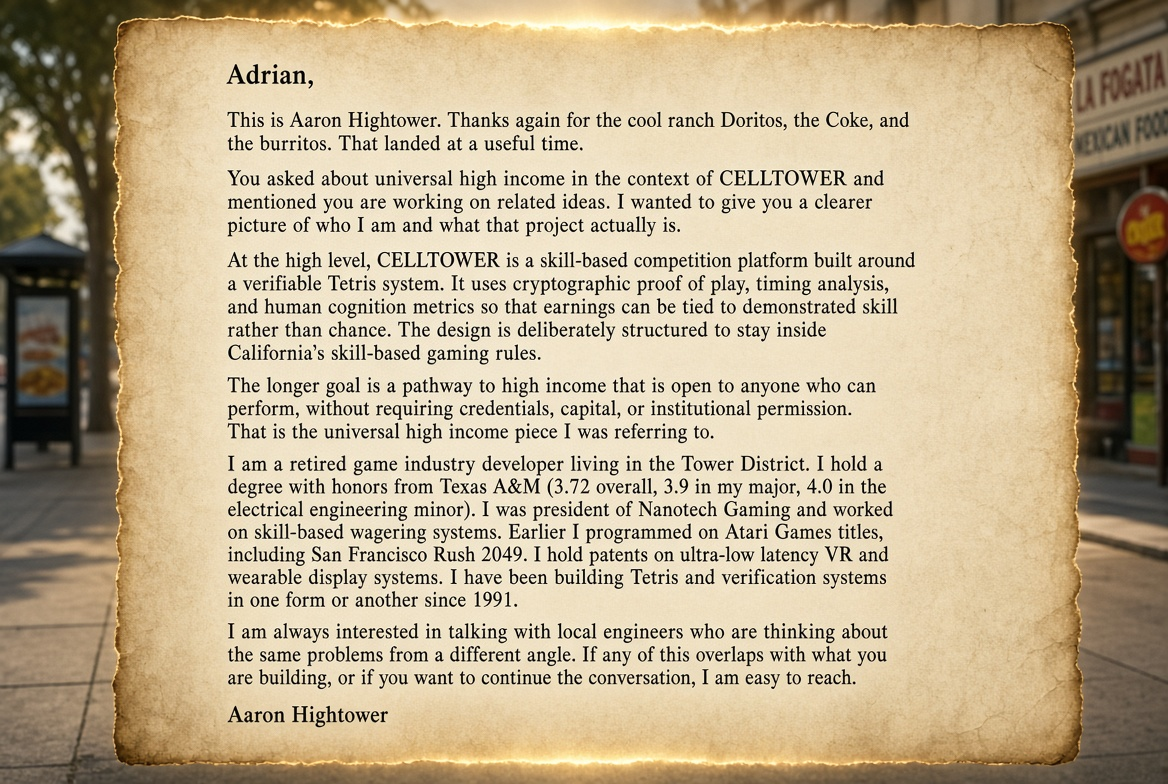
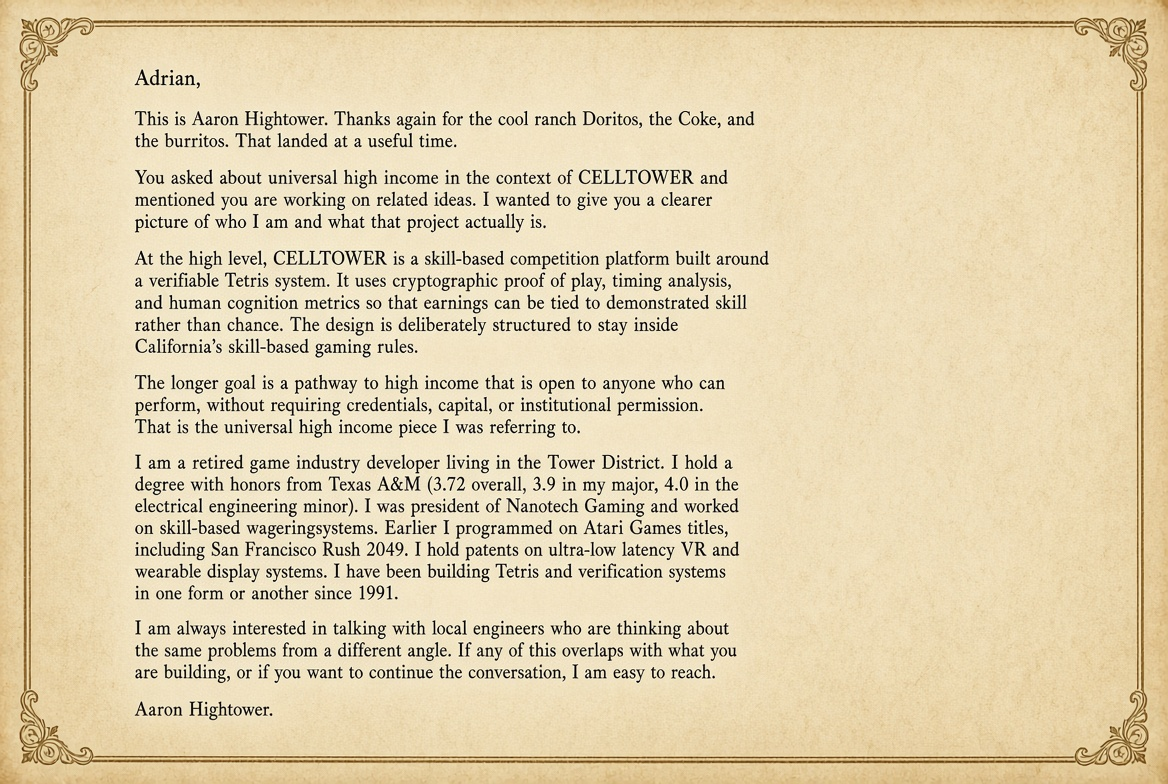
iSH changes

diff --git a/ah-adrian/index.html b/ah-adrian/index.html
@@ -3,25 +3,25 @@
 <head>
   <meta charset="UTF-8">
   <meta name="viewport" content="width=device-width, initial-scale=1.0">
-  <title>A Meeting at Belmont &amp; Van Ness | High Tower District</title>
-  <meta name="description" content="A follow-up of clear context and ethical intent after a sidewalk conversation at the northeast corner of Belmont and Van Ness in Fresno. CELLTOWER, verified skill, and universal high income.">
+  <title>A Meeting Near SFU Skateboards | High Tower District</title>
+  <meta name="description" content="Real context from the sidewalk in front of SFU Skateboards on Fulton, the food directed to Van Ness and Belmont, and a clear follow-up on CELLTOWER, skill, and ethical intent.">
   
   <!-- Open Graph -->
-  <meta property="og:title" content="A Meeting at Belmont &amp; Van Ness">
-  <meta property="og:description" content="Aaron Hightower offers full context to Adrian Hernandez after their meeting near the bus stop just south of the Mexican food place. Spiritual conversation, ethical clarity, and the CELLTOWER vision.">
-  <meta property="og:image" content="images/message.jpg">
+  <meta property="og:title" content="A Meeting Near SFU Skateboards">
+  <meta property="og:description" content="Aaron Hightower records the real places, the approach, the open-air conditions at Van Ness and Belmont, and the full context offered to Adrian Hernandez.">
+  <meta property="og:image" content="images/skate-shop.jpg">
   <meta property="og:image:width" content="1176">
-  <meta property="og:image:height" content="784">
-  <meta property="og:image:alt" content="Formal letter from Aaron Hightower to Adrian Hernandez resting on the sidewalk at Belmont and Van Ness">
-  <meta property="og:image:secure_url" content="images/message.jpg">
+  <meta property="og:image:height" content="1568">
+  <meta property="og:image:alt" content="SFU Skateboards at 707 N Fulton with the red brick ramp and chrome bike">
+  <meta property="og:image:secure_url" content="images/skate-shop.jpg">
   <meta property="og:type" content="article">
   <meta property="og:url" content="https://aahigh.github.io/stories/ah-adrian/">
   
   <!-- Twitter -->
   <meta name="twitter:card" content="summary_large_image">
-  <meta name="twitter:title" content="A Meeting at Belmont &amp; Van Ness">
-  <meta name="twitter:description" content="Context, integrity, and the CELLTOWER path after a sidewalk meeting in Fresno.">
-  <meta name="twitter:image" content="images/message.jpg">
+  <meta name="twitter:title" content="A Meeting Near SFU Skateboards">
+  <meta name="twitter:description" content="Real places, real exchange, full context on CELLTOWER and verified skill.">
+  <meta name="twitter:image" content="images/skate-shop.jpg">
   
   <script src="https://cdn.tailwindcss.com"></script>
   <link rel="preconnect" href="https://fonts.googleapis.com">
@@ -49,10 +49,10 @@
         Fresno · August 15, 2026
       </div>
       <h1 class="serif text-4xl md:text-5xl font-semibold leading-tight mb-4">
-        A Meeting at Belmont &amp; Van Ness
+        A Meeting Near SFU Skateboards
       </h1>
       <p class="text-xl text-slate-300 leading-relaxed max-w-2xl">
-        On the northeast corner, just south of the Mexican food establishment, near the bus stop. A conversation about spiritual powers, ethical weight, and the quiet offer of full context.
+        Approached in front of the skate shop on Fulton. Food directed to the intersection of Van Ness and Belmont. A conversation that moved from nutrition and spiritual powers into systems of verified skill.
       </p>
     </div>
   </header>
@@ -60,111 +60,96 @@
   <!-- Main Content -->
   <main class="max-w-3xl mx-auto px-4 py-12 space-y-16">
 
-    <!-- Opening Reflection -->
+    <!-- Opening -->
     <section>
       <p class="text-lg leading-relaxed text-slate-700">
-        The exchange began with cool ranch Doritos, a can of Coke, and two burritos. It continued into questions of religion, of a 501(c), of nutrition offered with spiritual intent. Then it turned toward systems, skill, and the possibility of high income that does not require permission.
+        The first approach happened in front of SFU Skateboards at 707 N Fulton. Representatives of a nonprofit asked whether food was wanted and directed the location to the intersection of Van Ness and Belmont. That intersection is the place most locals know for open-air drug activity, hand-to-hand sales conducted in plain view, and the political tolerance that allows it to continue despite clear violations of health codes, safety codes, and the criminal law. In local terms it functions much like Kensington Boulevard: government funds flow, enforcement stays selective, and the street remains an active market.
       </p>
       <p class="text-lg leading-relaxed text-slate-700 mt-4">
-        Adrian Hernandez introduced himself. Aaron Hightower answered. Same initials. Different paths. One conversation on a Fresno sidewalk that carried more weight than the food itself.
+        Cool ranch Doritos, a twelve-ounce Coke, an egg-and-pinto-bean burrito, and a chorizo burrito changed hands. Conversation followed about religion, a 501(c), spiritual powers, and ethical standing. Then it turned toward software, systems, and the idea of high income that does not require credentials or institutional permission.
       </p>
     </section>
 
-    <!-- Location Image -->
+    <!-- Skate Shop -->
     <figure>
-      <img src="images/corner.jpg" alt="Northeast corner of Belmont Avenue and Van Ness Avenue in Fresno, sidewalk near the bus stop just south of the Mexican food establishment" class="w-full rounded-lg shadow-md">
+      <img src="images/skate-shop.jpg" alt="SFU Skateboards black building with red logo, red brick ramp, and chrome fat-tire bike at 707 N Fulton" class="w-full rounded-lg shadow-md">
       <figcaption class="mt-3 text-sm text-slate-500 text-center">
-        The northeast corner of Belmont and Van Ness. Sidewalk near the bus stop, just south of the Mexican food place. This is where the conversation took place.
+        SFU Skateboards, 707 N Fulton. This is the exact place of the first approach by the nonprofit. The red brick ramp and the street in front of it are known ground for both of us.
       </figcaption>
     </figure>
 
-    <!-- The Message Encoded -->
+    <!-- The Letter -->
     <section>
-      <h2 class="serif text-3xl font-semibold mb-6 text-slate-900">The Letter Itself</h2>
+      <h2 class="serif text-3xl font-semibold mb-6 text-slate-900">The Follow-Up Letter</h2>
       <p class="text-lg leading-relaxed text-slate-700 mb-6">
-        What follows is not a claim of superiority. It is the opposite: a deliberate decision to place every relevant fact in the open so that any future conversation begins from clear ground rather than assumption.
+        After the sidewalk exchange, the proper next step is full context rather than partial impression. The letter below is offered so that every relevant fact sits in the open. No superiority is asserted. The record is simply placed where it can be read without distortion.
       </p>
       <figure>
-        <img src="images/message.jpg" alt="Formal letter from Aaron Hightower to Adrian Hernandez with full context about CELLTOWER and background" class="w-full rounded-lg shadow-md border border-slate-200">
+        <img src="images/message.jpg" alt="Formal letter from Aaron Hightower to Adrian Hernandez containing full background and CELLTOWER context" class="w-full rounded-lg shadow-md border border-slate-200">
         <figcaption class="mt-3 text-sm text-slate-500 text-center">
-          The complete follow-up, rendered as a single high-resolution document against the place where the two men stood.
+          Complete written context: education, patents, game-industry history, and the design of CELLTOWER as a skill-based path.
         </figcaption>
       </figure>
     </section>
 
-    <!-- Ethical Stance -->
+    <!-- Adrian Photos -->
     <section>
-      <h2 class="serif text-3xl font-semibold mb-6 text-slate-900">Best Foot Forward</h2>
+      <h2 class="serif text-3xl font-semibold mb-6 text-slate-900">Places We Are Both Known to Be</h2>
+      <p class="text-lg leading-relaxed text-slate-700 mb-6">
+        These are the real frames from the day and the neighborhood. The same man who accepted a game-testing challenge, the same streets, the same Tower District landmarks where further meetings are possible.
+      </p>
+      
+      <figure class="mb-10">
+        <img src="images/adrian-tower.jpg" alt="Adrian Hernandez under the Tower Theatre marquee wearing high-visibility vest and black and white cap" class="w-full rounded-lg shadow-md">
+        <figcaption class="mt-3 text-sm text-slate-500 text-center">
+          Under the Tower Theatre marquee. Same day, same high-visibility vest, same open sky.
+        </figcaption>
+      </figure>
+
+      <figure class="mb-10">
+        <img src="images/adrian-coke.jpg" alt="Adrian Hernandez drinking a Coca-Cola can outdoors in high-visibility vest" class="w-full rounded-lg shadow-md">
+        <figcaption class="mt-3 text-sm text-slate-500 text-center">
+          The Coke that was part of the original exchange. Straightforward, unfiltered, on the street.
+        </figcaption>
+      </figure>
+    </section>
+
+    <!-- Messages -->
+    <section>
+      <h2 class="serif text-3xl font-semibold mb-6 text-slate-900">The Direct Exchange Continues</h2>
+      <p class="text-lg leading-relaxed text-slate-700 mb-6">
+        After the meeting, the conversation moved into a concrete challenge on the game itself. Two million points before year’s end for one hundred dollars. The reply was immediate and clear.
+      </p>
+      <figure>
+        <img src="images/messages.jpg" alt="iMessage conversation between Aaron Hightower and Adrian showing the game tester challenge and acceptance" class="w-full rounded-lg shadow-md border border-slate-200">
+        <figcaption class="mt-3 text-sm text-slate-500 text-center">
+          The challenge and the acceptance. Same initials in different order. Same willingness to put numbers on the table.
+        </figcaption>
+      </figure>
+    </section>
+
+    <!-- Ethical Frame -->
+    <section>
+      <h2 class="serif text-3xl font-semibold mb-6 text-slate-900">Ethical Clarity Without Performance</h2>
       <p class="text-lg leading-relaxed text-slate-700">
-        There were implications in the air about ethical standing and spiritual authority. Aaron’s response is not to contest those implications. It is to present the record of a life spent building systems that reward verified human performance rather than credentials, capital, or institutional blessing.
+        The spiritual and ethical implications that arose on the sidewalk are met with the same seriousness they were offered. The response is not a contest of moral rank. It is the decision to present the full record of work, education, patents, and design intent so that any further conversation begins from verified ground rather than rumor or partial view.
       </p>
       <p class="text-lg leading-relaxed text-slate-700 mt-4">
-        Texas A&amp;M with honors. A 3.72 overall GPA, 3.9 in the major, 4.0 in the electrical engineering minor. President of Nanotech Gaming. Atari Games programmer on San Francisco Rush 2049. Holder of patents on ultra-low latency wearable display systems. Builder of CELLTOWER.
-      </p>
-      <figure class="mt-8">
-        <img src="images/integrity.jpg" alt="Figure standing with quiet confidence at the corner of Belmont and Van Ness, representing ethical clarity and best presentation" class="w-full rounded-lg shadow-md">
-        <figcaption class="mt-3 text-sm text-slate-500 text-center">
-          Presenting oneself with the highest concern for ethical clarity. No performance. Only the record and the intent.
-        </figcaption>
-      </figure>
-    </section>
-
-    <!-- Spiritual Conversation -->
-    <section>
-      <h2 class="serif text-3xl font-semibold mb-6 text-slate-900">Spiritual Powers and Ethical Weight</h2>
-      <p class="text-lg leading-relaxed text-slate-700">
-        The conversation touched spiritual powers. In that moment the proper response is not to claim higher ground. It is to meet the seriousness of the topic with equal seriousness of character.
+        Texas A&amp;M with honors. 3.72 overall, 3.9 in the major, 4.0 in the electrical engineering minor. President of Nanotech Gaming. Atari Games programmer on San Francisco Rush 2049. Patents on ultra-low latency wearable systems. Ongoing construction of CELLTOWER as a platform where earnings can be tied to demonstrated human skill under California law.
       </p>
       <p class="text-lg leading-relaxed text-slate-700 mt-4">
-        The food was given. The questions were asked. The reply is offered in the same spirit of open exchange: full context, no concealment, and an invitation to continue if the work of verified skill and fair reward holds interest.
+        That is the ethical façade held high: transparency of record, invitation to continue, and no claim that the work is above anyone else’s. Only that it is real, documented, and available for inspection.
       </p>
-      <figure class="mt-8">
-        <img src="images/dialogue.jpg" alt="Two men in respectful conversation near a Van Ness bus stop in Fresno under golden light" class="w-full rounded-lg shadow-md">
-        <figcaption class="mt-3 text-sm text-slate-500 text-center">
-          Two men speaking at the edge of the street. The light falls equally. The subject is higher than either of them.
-        </figcaption>
-      </figure>
-    </section>
-
-    <!-- The Exchange -->
-    <section>
-      <h2 class="serif text-3xl font-semibold mb-6 text-slate-900">The Humble Beginning</h2>
-      <p class="text-lg leading-relaxed text-slate-700">
-        Nutrition was offered in the name of something larger. That act is acknowledged without irony. The follow-up does not diminish it. It simply places the technical and ethical record beside it so that both men can see the full field.
-      </p>
-      <figure class="mt-8">
-        <img src="images/exchange.jpg" alt="Two men exchanging food on the sidewalk near a Mexican restaurant and bus stop under bright sunlight" class="w-full rounded-lg shadow-md">
-        <figcaption class="mt-3 text-sm text-slate-500 text-center">
-          The exchange that opened the door. Cool ranch Doritos, a Coke, egg and pinto bean burrito, chorizo burrito. Simple gifts that carried conversation into deeper territory.
-        </figcaption>
-      </figure>
-    </section>
-
-    <!-- CELLTOWER Vision -->
-    <section>
-      <h2 class="serif text-3xl font-semibold mb-6 text-slate-900">Universal High Income Through Verified Skill</h2>
-      <p class="text-lg leading-relaxed text-slate-700">
-        CELLTOWER is a mobile-first platform built on a verifiable Tetris system. Cryptographic proof of play. Timing analysis. Human cognition metrics. The architecture is designed so that earnings can be tied to demonstrated skill under California law rather than chance.
-      </p>
-      <p class="text-lg leading-relaxed text-slate-700 mt-4">
-        The longer horizon is a pathway to high income that remains open to anyone who can perform. No requirement for credentials, capital, or institutional permission. That is the meaning of the phrase that drew Adrian’s attention.
-      </p>
-      <figure class="mt-8">
-        <img src="images/celltower.jpg" alt="Symbolic crystalline tower of light representing CELLTOWER as verified human skill and fair reward open to all" class="w-full rounded-lg shadow-md">
-        <figcaption class="mt-3 text-sm text-slate-500 text-center">
-          CELLTOWER as structure: ethical, inclusive, verified. Clarity, opportunity, dignity. Open to all who can perform.
-        </figcaption>
-      </figure>
     </section>
 
     <!-- Closing -->
     <section class="border-t border-slate-200 pt-12">
-      <h2 class="serif text-3xl font-semibold mb-6 text-slate-900">An Open Door</h2>
+      <h2 class="serif text-3xl font-semibold mb-6 text-slate-900">An Open Record</h2>
       <p class="text-lg leading-relaxed text-slate-700">
-        This page exists so that the context is complete and permanent. Nothing is hidden. Nothing is overstated. The invitation remains exactly as written in the letter: if the work overlaps with what Adrian is building, or if further conversation is desired, Aaron is easy to reach.
+        The skate shop on Fulton is where the approach occurred. Van Ness and Belmont is where the food was directed and where the open-air market continues under political protection. The letter, the photographs, and the challenge sit together so that the context is complete.
       </p>
       <p class="text-lg leading-relaxed text-slate-700 mt-4">
-        The sidewalk at Belmont and Van Ness held a short meeting between two men who share initials and a willingness to speak about higher things. The rest is offered in writing, with care, and with the ethical façade held as high as the conversation itself required.
+        If the work of verified skill and fair reward overlaps with what is being built, or if further conversation is useful, the door remains open. No performance. Only the record and the invitation.
       </p>
     </section>
 
